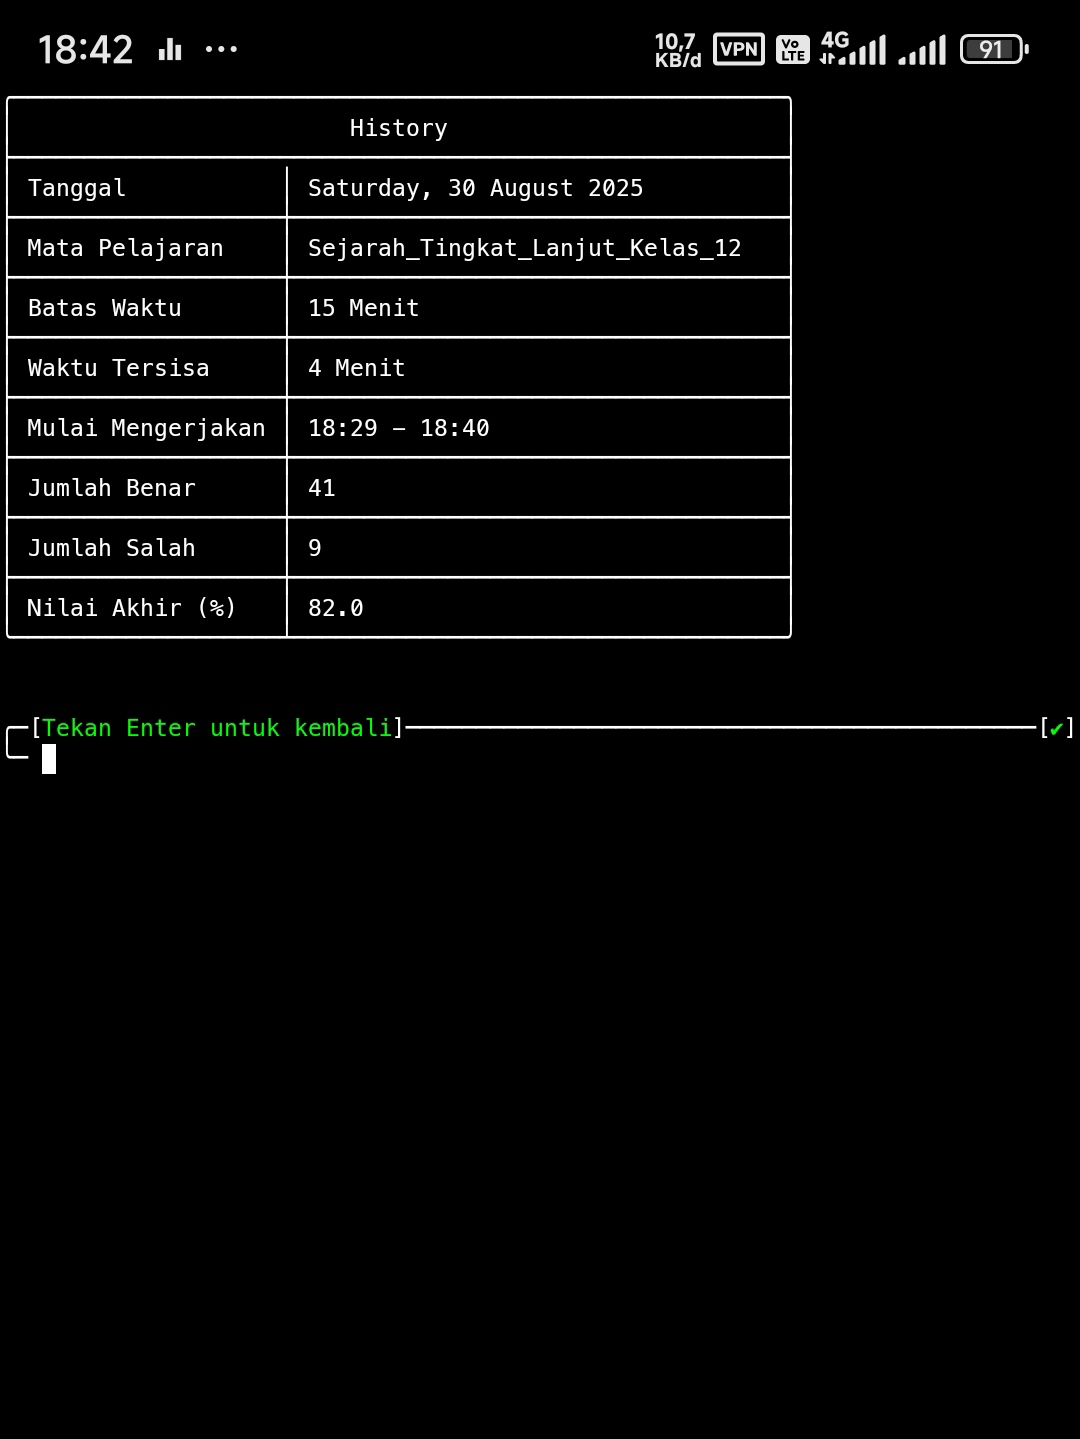
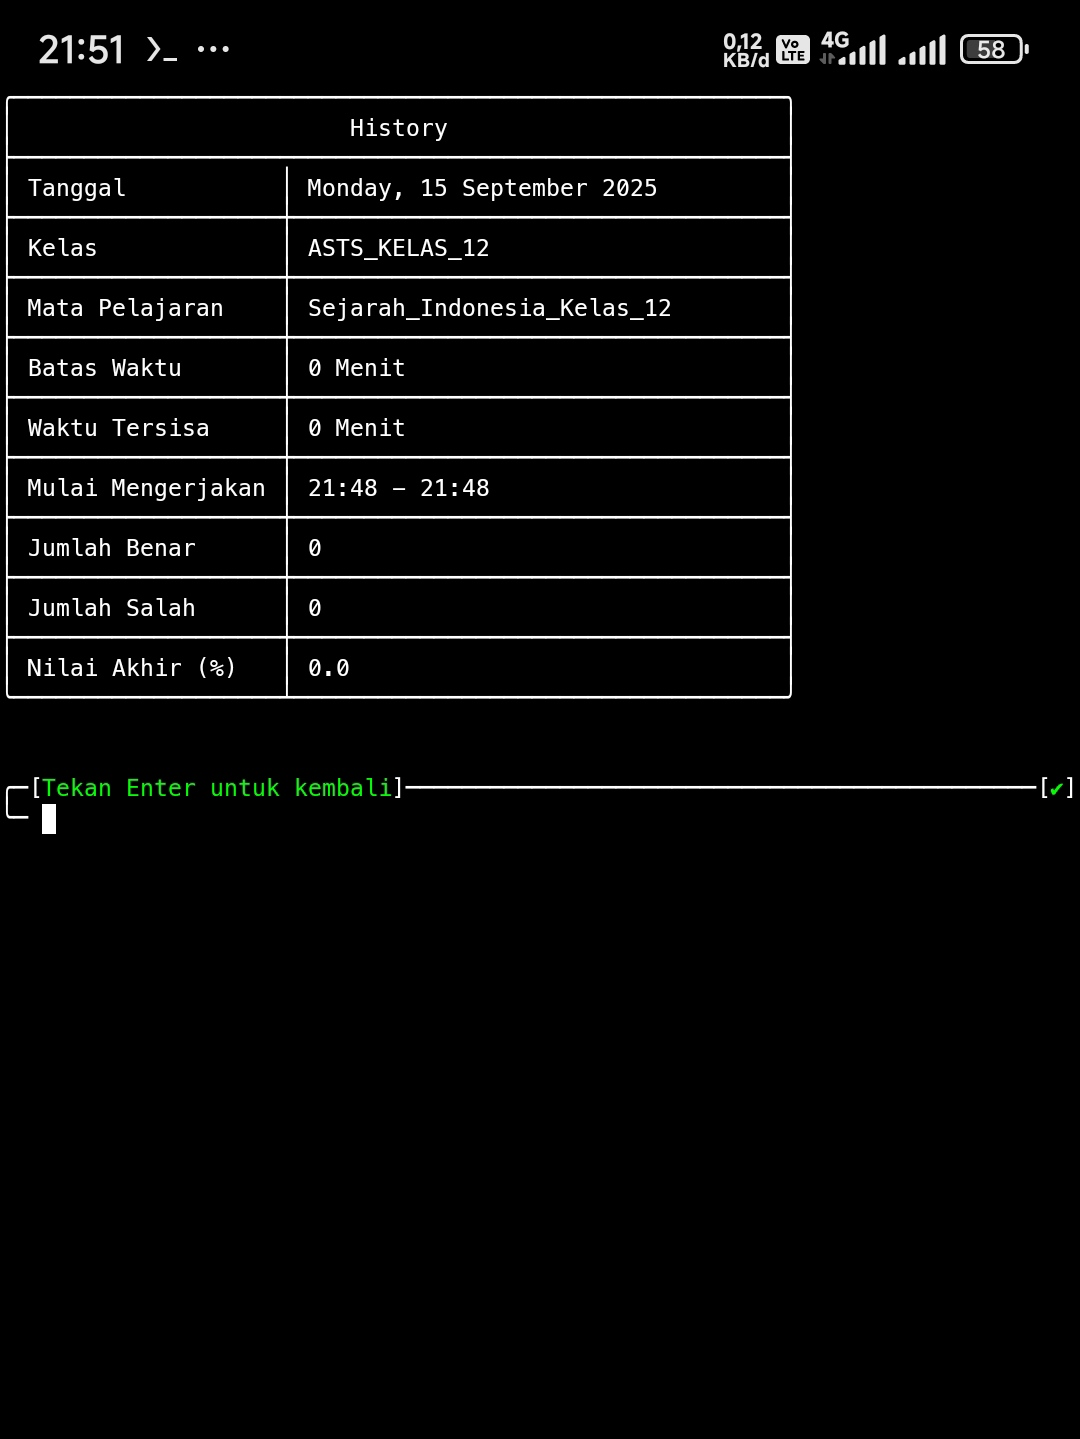
feat(db_handler): menambahkan column kelas ke table riwayat

diff --git a/utils/db_handler.py b/utils/db_handler.py
@@ -143,7 +143,8 @@ class RiwayatHandler(DatabaseHandler):
         self.execute_script(query)
 
 
-    def simpan_riwayat(self, tanggal: str, pelajaran: str,
+    def simpan_riwayat(self, tanggal: str,
+                       kelas: str, pelajaran: str,
                        batas_waktu: int, waktu_tersisa: int,
                        mulai_mengerjakan: str, benar: int,
                        salah: int, nilai: float):
@@ -168,8 +169,8 @@ class RiwayatHandler(DatabaseHandler):
             nilai (float): Skor akhir yang didapat.
         """
         query = self._parse_sql(self.fqy_simpan)
-        param = (tanggal, pelajaran, batas_waktu, waktu_tersisa,
-                 mulai_mengerjakan, benar, salah, nilai)
+        param = (tanggal, kelas, pelajaran, batas_waktu,
+                 waktu_tersisa, mulai_mengerjakan, benar, salah, nilai)
         self.execute_query(query, param)
 
 

diff --git a/fquiz.py b/fquiz.py
@@ -109,9 +109,9 @@ if daftar_koreksi:
             table.clear()
 
 tanggal = time.strftime("%A, %d %B %Y")
-save.simpan_riwayat(tanggal, mapel.stem, durasi_waktu,
-                    waktu_tersisa[0], f"{mulai} - {selesai}",
-                    benar, salah, nilai)
+save.simpan_riwayat(tanggal, mapel.parent.name, mapel.stem,
+                    durasi_waktu, waktu_tersisa[0],
+                    f"{mulai} - {selesai}", benar, salah, nilai)
 
 quote = parse_json(Path(__file__).parent / ".quote/quote.json")
 table.single_colum(
@@ -119,5 +119,5 @@ table.single_colum(
     ">> Devloper    : Makasih dah coba project gabut ini brooo",
     ">> Corrected   : Fenrix",
     ">> Instagram   : @seff_hi7",
-    ">> Version     : FQuiz v1.69.49",
+    ">> Version     : FQuiz v1.70.49",
     align="left")

diff --git a/utils/riwayat_handler.py b/utils/riwayat_handler.py
@@ -12,9 +12,10 @@ def riwayat(mode="tertinggi", dasar="nilai"):
         logs = [log]
     else:
         logs = log
-    for tg, pl, bw, sw, wm, bn, sl, nl in logs:
+    for tg, kl, pl, bw, sw, wm, bn, sl, nl in logs:
         dft = {
             "Tanggal": tg,
+            "Kelas": kl.upper(),
             "Mata Pelajaran": pl.title(),
             "Batas Waktu": f"{bw} Menit",
             "Waktu Tersisa": f"{sw} Menit",
